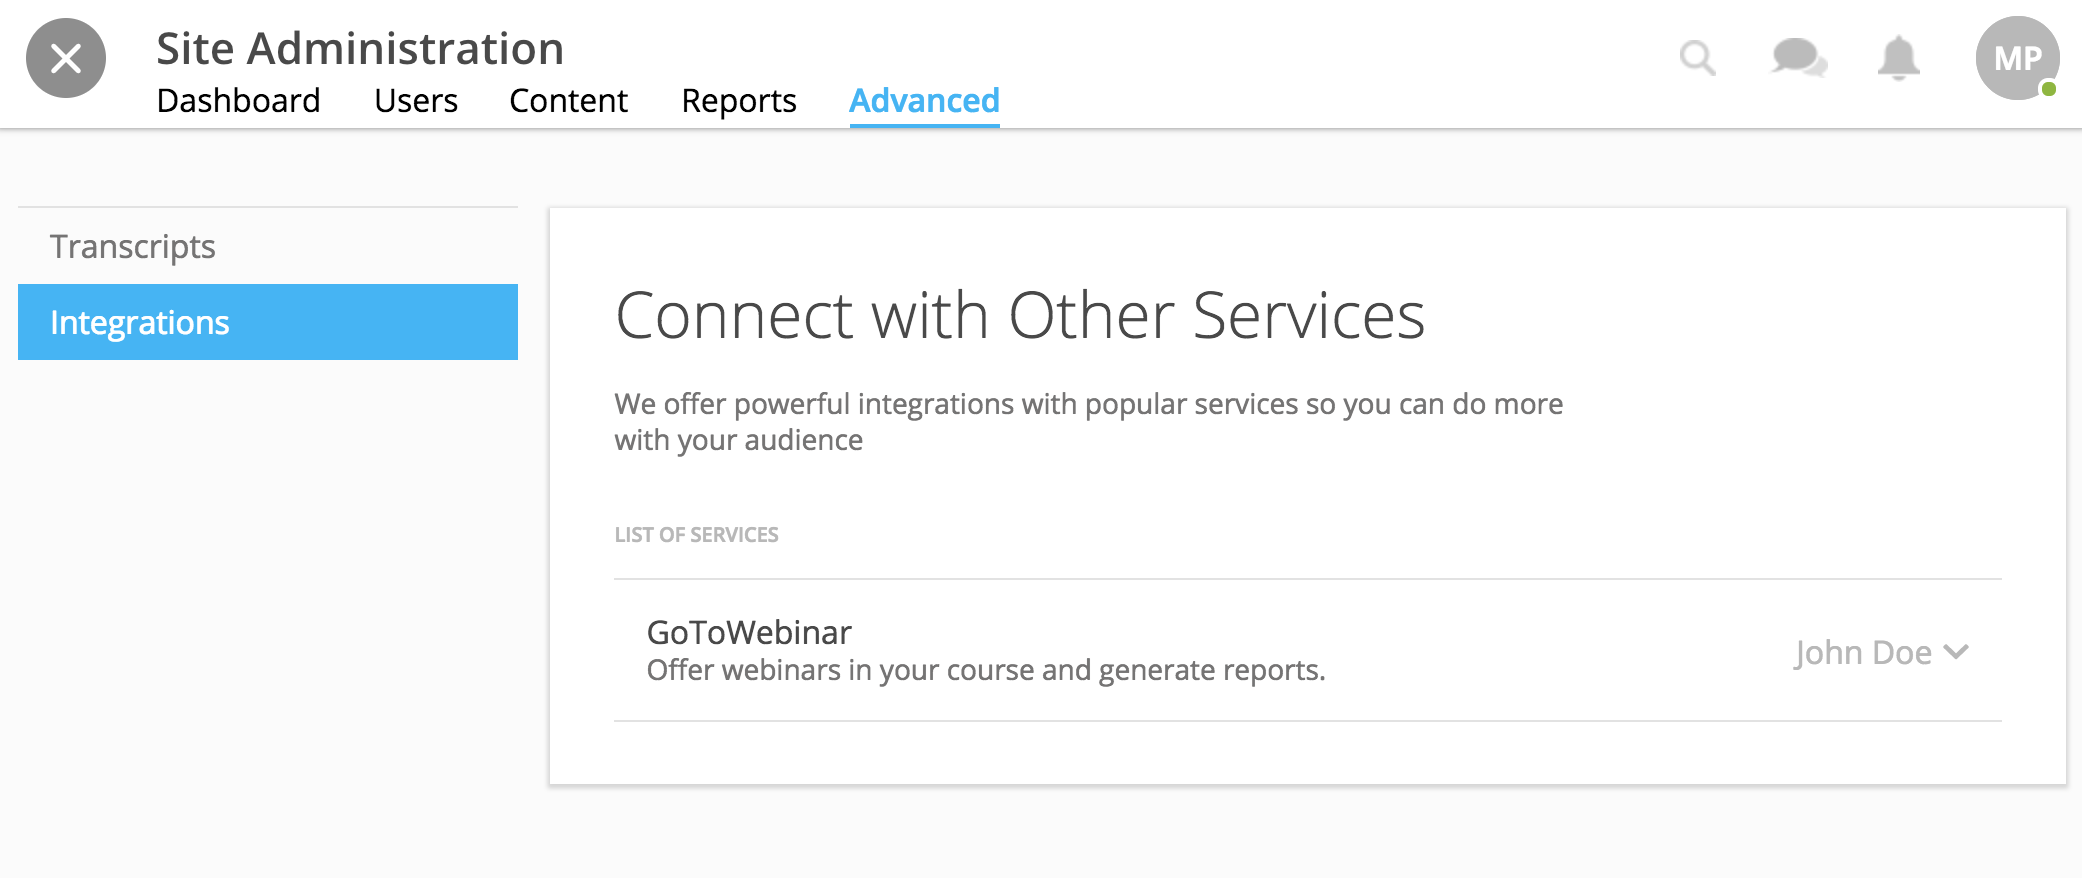
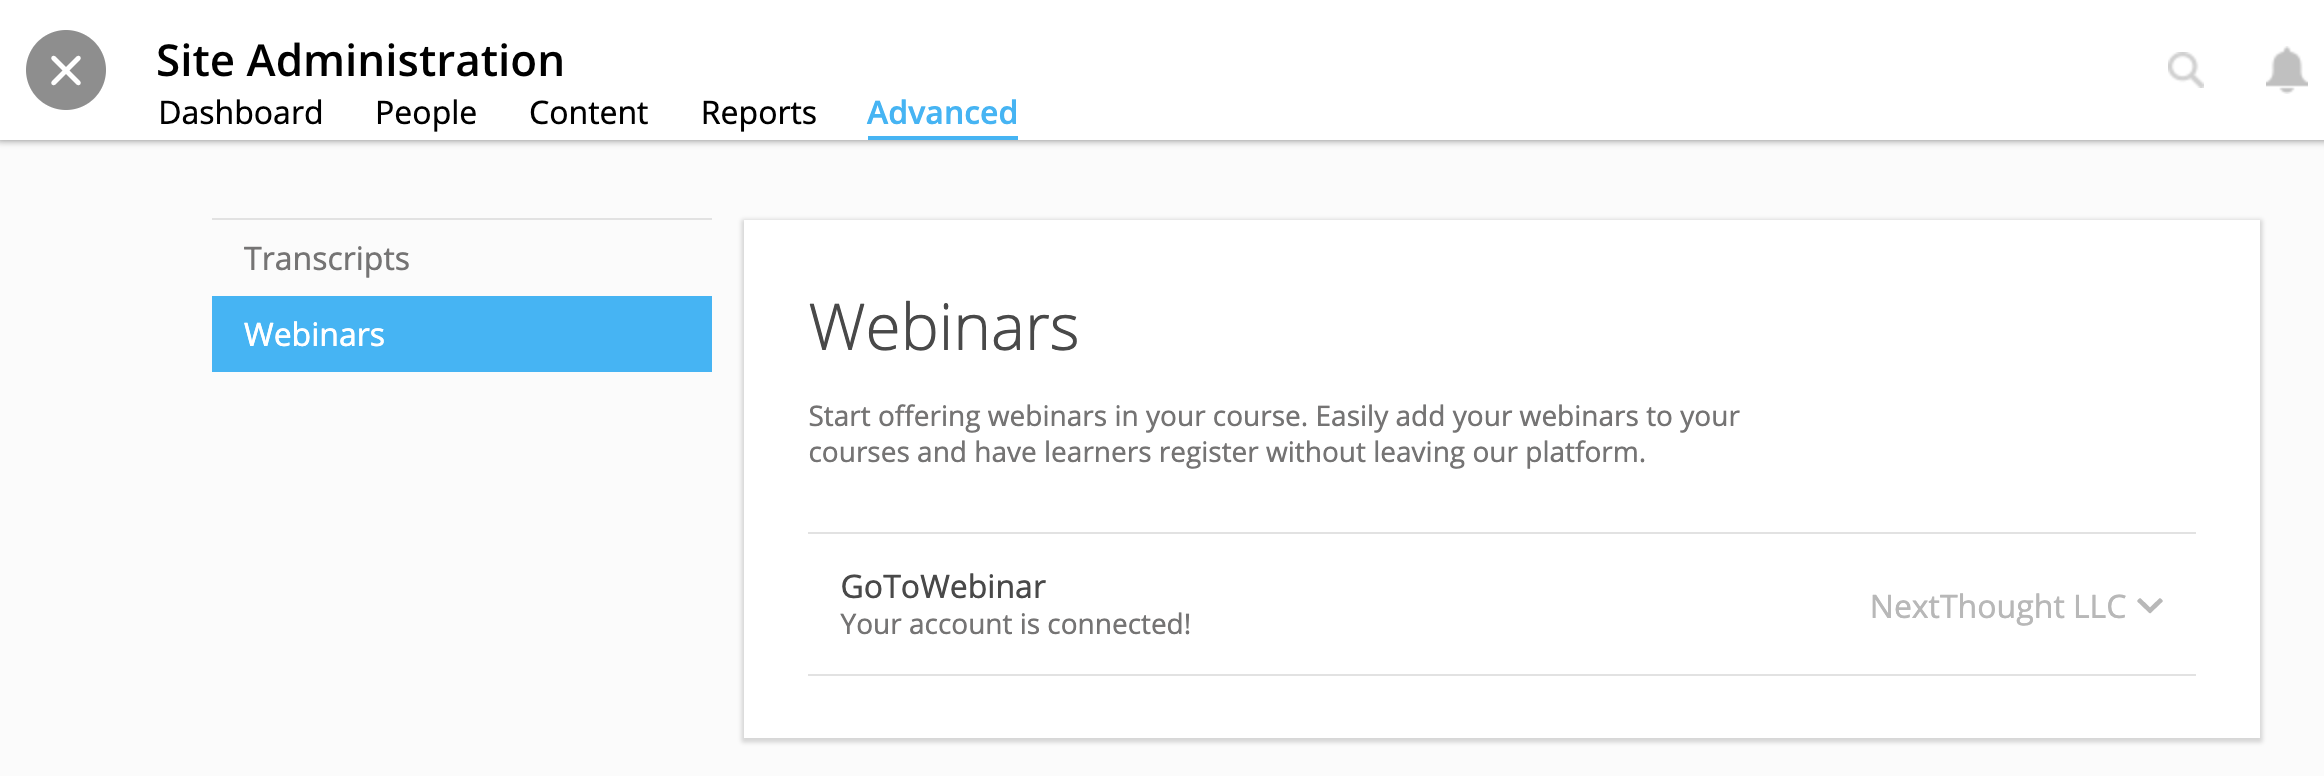
admin updates

diff --git a/adminguide/createcommunity.rst b/adminguide/createcommunity.rst
@@ -1,0 +1,133 @@
+===============================
+Community Creation and Editing
+===============================
+
+This guide will walk you through creating and editing a site community.
+
+The site community offers a space for site-wide collaboration and engagement. Site communities can be exclusive or public, and allow members to post topics and comment on others’ posts. Members can also share notes from their courses to the site community page.
+
+.. note:: Community creation is editing is reserved solely for the site admin role.
+
+Create a Community
+==========================================
+
+**To create a new community:**
+
+1. Click on the "Create" button in the upper right-hand corner of your admin account.
+
+.. image:: images/createcoursebutton.png
+   :scale: 50
+
+2. Select "Create a Community" in the dropdown menu.
+
+.. image:: images/coursedropdown.png
+   :scale: 50
+   
+3. Type a community name, and toggle Auto-Subscribe. (You can edit
+   this later.)  Auto-Subscribe will automatically join all individuals
+   that create an account on the site. Please note that learners already
+   on the site will have to be manually added.
+
+.. image:: images/createcommunity2.png
+
+4. Click “Create.”
+
+Site Community Name and Description
+==========================================
+
+You can edit the community name and description of any existing community on your site.
+
+To edit the name or description:
+
+1. Click into the community.
+2. Click the “Edit” button under the community name.
+3. Click into the “Title” field to edit the title.
+4. Click into the “Description” field to add or edit the description.
+5. The description will display below the name of the community within the community page.
+
+.. image:: images/communitytitle.png
+   :scale: 50
+
+6. Click “Save.”
+
+Site Community Channels
+==========================================
+
+Channels offer community organization and allow separate focused spaces for collaboration. To create a new channel:
+
+1. Click into the community.
+2. Click the “Edit” button under the community name.
+3. Click “Create a New Channel.”
+4. Type a new title and description.
+5. Note that the All Activity channel will remain by default.
+
+.. image:: images/communitychannel.png
+   :scale: 50
+
+6. Click “Save.”
+
+Site Community Auto-Join New Users
+==========================================
+
+Channels allow auto-joining of learners on the site upon account creation. Please note that previous learners will not automatically join unless manually added. See Site Community Membership to learn more.
+
+To toggle Auto-Join:
+
+1. Click into the community.
+2. Click the “Edit” button under the community name.
+3. Click the toggle “Auto-Join New Users” to desired state.
+
+.. image:: images/communityoptions.png
+   :scale: 50
+
+4. Click “Save.”
+
+Site Community Image
+==========================================
+
+Change the main image or background image for your community. To add or edit images:
+
+1. Click into the community.
+2. Click the “Edit” button under the community name.
+3. Click on the “Edit” button for either the main (front) image or background (back) image.
+
+.. image:: images/communityimage.png
+
+4. Choose image, solid, or gradient.
+
+.. image:: images/Communityimage1.png
+   :scale: 50
+
+5. Make selections or upload your image after selecting “Change.”
+6. Click “Save.”
+
+Site Community Membership
+==========================================
+
+Manage site community membership by adding or removing individuals, or adding or removing everyone.
+
+To edit membership:
+
+1. Click into the community.
+2. Click “Manage Members.”
+3. In this window, you can add and remove learners from the site community.
+
+Search for an individual, and click on their name to add them to the community.
+
+.. image:: images/communitymembersearch.png
+   :scale: 50
+
+Click into the search field and select “Everyone” to add all site learners to the community.
+
+.. image:: images/communitymemberall.png
+   :scale: 50
+
+Check their name in the list and select “Remove” to remove a member.
+
+.. image:: images/communitymemberremove.png
+   :scale: 50
+
+Click on the ellipsis next to the number of members to “Remove All Members” from the community.
+
+.. image:: images/communitymemberremoveall.png
+   :scale: 50

diff --git a/adminguide/webinaradmin.rst b/adminguide/webinaradmin.rst
@@ -11,7 +11,7 @@ Before attempting to integrate with GoToWebinar, please make sure you have a GoT
 
 1. While logged in with an admin account, navigate to your Site Admin Tools from the homescreen.
 2. Click on the “Advanced” tab.
-3. Click on the “Integrations” section.
+3. Click on the “Webinars” section.
 4. Click on the blue “Connect” link next to GoToWebinar.
 
 .. image:: images/webinar1.png

diff --git a/adminguide/index.rst b/adminguide/index.rst
@@ -6,6 +6,7 @@ Admin  Guide
 	:maxdepth: 1
 
 	admindash
+	createcommunity
 	createcourse
 	managecourse
 	sitecredit
